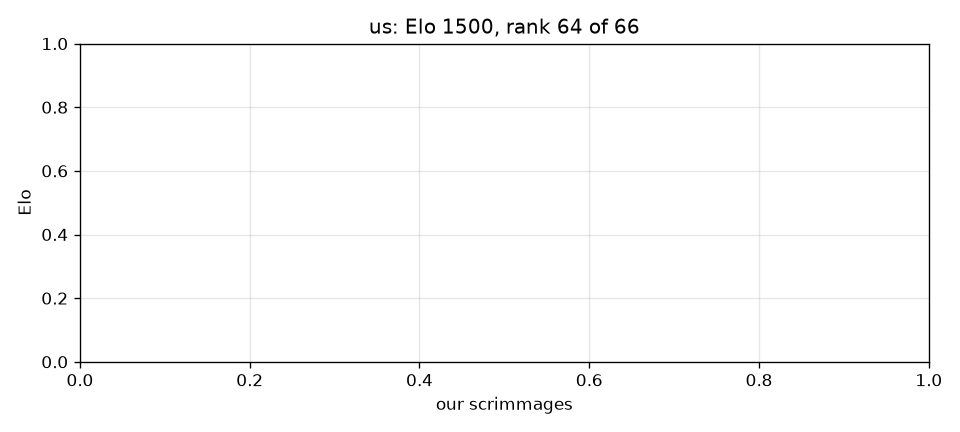
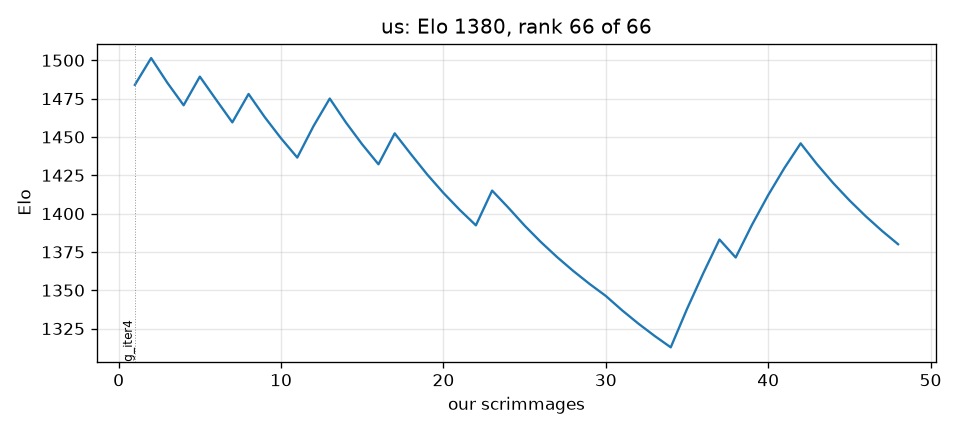
g_iter4 first scrimmage block: 14/48; ladder updated; scrim-record reads results.csv when raw is gone
Claude-Session: https://claude.ai/code/session_01VgeNHsn9ncLsLui8RaK6L7

diff --git a/tools/scrim-record.py b/tools/scrim-record.py
@@ -9,7 +9,10 @@ ap = argparse.ArgumentParser(); ap.add_argument('run'); ap.add_argument('--label
 a = ap.parse_args(); run = os.path.basename(a.run.rstrip('/'))
 if any(r['run'] == run for r in elolib.load()): print('already recorded', run); sys.exit(0)
 new = []
-for i, line in enumerate(open(os.path.join(a.run, 'results.raw'))):
+src = os.path.join(a.run, 'results.raw')
+if not os.path.exists(src): src = os.path.join(a.run, 'results.csv')   # gauntlet.sh keeps only the sorted csv (same columns, header first)
+for i, line in enumerate(open(src)):
+    if line.startswith('opponent,'): continue
     f = line.rstrip('\n').split(',')
     if run.endswith('-ladder'):
         if len(f) < 6 or f[3] not in ('A', 'B'): continue

diff --git a/progress/ELO.md b/progress/ELO.md
@@ -1,72 +1,72 @@
 # Elo ladder
 
-2 scrimmages recorded; K=32 from 1500; our team is **us** (rank 64 of 66, Elo 1500, 0 games).
+50 scrimmages recorded; K=32 from 1500; our team is **us** (rank 66 of 66, Elo 1380, 48 games).
 
 | rank | bot | Elo | games | W-L |
 |---|---|---|---|---|
-| 1 | Sihal3.cavShieldv705 | 1516 | 1 | 1-0 |
-| 2 | anshgs.ho4 | 1516 | 1 | 1-0 |
-| 3 | 123kevinlee.atomFinalQualifier | 1500 | 0 | 0-0 |
-| 4 | Ahhorse1.WinstonPlayer | 1500 | 0 | 0-0 |
-| 5 | Aryan34.bot | 1500 | 0 | 0-0 |
-| 6 | Aryo-Patel.finalBot | 1500 | 0 | 0-0 |
-| 7 | BSreenivas0713.musketeerplayerfinal | 1500 | 0 | 0-0 |
-| 8 | BattlecodeTeam4.robotalpha | 1500 | 0 | 0-0 |
-| 9 | BoluAdubi.bot1 | 1500 | 0 | 0-0 |
-| 10 | BryceKan3.bot.tournament.sprint | 1500 | 0 | 0-0 |
-| 11 | ChiragKalra.gen5 | 1500 | 0 | 0-0 |
-| 12 | IvanGeffner.thirtyone | 1500 | 0 | 0-0 |
-| 13 | JCRaymond.bot.tournament.sprint | 1500 | 0 | 0-0 |
-| 14 | JasonYe4273.finals | 1500 | 0 | 0-0 |
-| 15 | Mahpare.hackatrainee_v1 | 1500 | 0 | 0-0 |
-| 16 | OliverMKing.bot.tournament.sprint | 1500 | 0 | 0-0 |
-| 17 | SLaGrave.AlphaCentauri | 1500 | 0 | 0-0 |
-| 18 | Scott-Poole.spright8 | 1500 | 0 | 0-0 |
-| 19 | StoneT2000.sprinttuna | 1500 | 0 | 0-0 |
-| 20 | TeamSerpentine.mars | 1500 | 0 | 0-0 |
-| 21 | Techno-coder.muckrakers | 1500 | 0 | 0-0 |
-| 22 | Victoriano012.SprintBot2 | 1500 | 0 | 0-0 |
-| 23 | VittalT.final_usqualplayer3_subm | 1500 | 0 | 0-0 |
-| 24 | abhishekshree.bot2 | 1500 | 0 | 0-0 |
-| 25 | aidan-mundy.final_usqualplayer3_subm | 1500 | 0 | 0-0 |
-| 26 | ama29.v6 | 1500 | 0 | 0-0 |
-| 27 | angelaloh09.camelmanplayer | 1500 | 0 | 0-0 |
-| 28 | arya-k.quals_v1 | 1500 | 0 | 0-0 |
-| 29 | astelmach20.piedPiper | 1500 | 0 | 0-0 |
-| 30 | awesomelemonade.sprint1bot | 1500 | 0 | 0-0 |
-| 31 | davidfang00.Rushbot3 | 1500 | 0 | 0-0 |
-| 32 | diegorod9000.Newcomer | 1500 | 0 | 0-0 |
-| 33 | dominicmkennedy.playerj3 | 1500 | 0 | 0-0 |
-| 34 | edlwang.sprint2 | 1500 | 0 | 0-0 |
-| 35 | ehiggins98.initialbot | 1500 | 0 | 0-0 |
-| 36 | evan-schott.bugplayer | 1500 | 0 | 0-0 |
-| 37 | iliao2345.attacker | 1500 | 0 | 0-0 |
-| 38 | iyzg.sbot17 | 1500 | 0 | 0-0 |
-| 39 | jay20162016.ecobot | 1500 | 0 | 0-0 |
-| 40 | jjtippetts.influencerforceplayer | 1500 | 0 | 0-0 |
-| 41 | jmerle.camel_case_v7_sprint_2 | 1500 | 0 | 0-0 |
+| 1 | rzhan11.sprint2 | 1566 | 6 | 6-0 |
+| 2 | iliao2345.attacker | 1558 | 6 | 6-0 |
+| 3 | awesomelemonade.sprint1bot | 1535 | 6 | 5-1 |
+| 4 | 123kevinlee.atomFinalQualifier | 1526 | 6 | 4-2 |
+| 5 | arya-k.quals_v1 | 1518 | 6 | 4-2 |
+| 6 | Scott-Poole.spright8 | 1517 | 6 | 4-2 |
+| 7 | Sihal3.cavShieldv705 | 1516 | 1 | 1-0 |
+| 8 | anshgs.ho4 | 1516 | 1 | 1-0 |
+| 9 | Ahhorse1.WinstonPlayer | 1500 | 0 | 0-0 |
+| 10 | Aryan34.bot | 1500 | 0 | 0-0 |
+| 11 | Aryo-Patel.finalBot | 1500 | 0 | 0-0 |
+| 12 | BSreenivas0713.musketeerplayerfinal | 1500 | 0 | 0-0 |
+| 13 | BattlecodeTeam4.robotalpha | 1500 | 0 | 0-0 |
+| 14 | BoluAdubi.bot1 | 1500 | 0 | 0-0 |
+| 15 | BryceKan3.bot.tournament.sprint | 1500 | 0 | 0-0 |
+| 16 | ChiragKalra.gen5 | 1500 | 0 | 0-0 |
+| 17 | IvanGeffner.thirtyone | 1500 | 0 | 0-0 |
+| 18 | JCRaymond.bot.tournament.sprint | 1500 | 0 | 0-0 |
+| 19 | JasonYe4273.finals | 1500 | 0 | 0-0 |
+| 20 | Mahpare.hackatrainee_v1 | 1500 | 0 | 0-0 |
+| 21 | OliverMKing.bot.tournament.sprint | 1500 | 0 | 0-0 |
+| 22 | SLaGrave.AlphaCentauri | 1500 | 0 | 0-0 |
+| 23 | StoneT2000.sprinttuna | 1500 | 0 | 0-0 |
+| 24 | TeamSerpentine.mars | 1500 | 0 | 0-0 |
+| 25 | Techno-coder.muckrakers | 1500 | 0 | 0-0 |
+| 26 | Victoriano012.SprintBot2 | 1500 | 0 | 0-0 |
+| 27 | VittalT.final_usqualplayer3_subm | 1500 | 0 | 0-0 |
+| 28 | abhishekshree.bot2 | 1500 | 0 | 0-0 |
+| 29 | aidan-mundy.final_usqualplayer3_subm | 1500 | 0 | 0-0 |
+| 30 | ama29.v6 | 1500 | 0 | 0-0 |
+| 31 | angelaloh09.camelmanplayer | 1500 | 0 | 0-0 |
+| 32 | astelmach20.piedPiper | 1500 | 0 | 0-0 |
+| 33 | davidfang00.Rushbot3 | 1500 | 0 | 0-0 |
+| 34 | diegorod9000.Newcomer | 1500 | 0 | 0-0 |
+| 35 | dominicmkennedy.playerj3 | 1500 | 0 | 0-0 |
+| 36 | edlwang.sprint2 | 1500 | 0 | 0-0 |
+| 37 | ehiggins98.initialbot | 1500 | 0 | 0-0 |
+| 38 | evan-schott.bugplayer | 1500 | 0 | 0-0 |
+| 39 | iyzg.sbot17 | 1500 | 0 | 0-0 |
+| 40 | jay20162016.ecobot | 1500 | 0 | 0-0 |
+| 41 | jjtippetts.influencerforceplayer | 1500 | 0 | 0-0 |
 | 42 | mama4294.Maloneplayer | 1500 | 0 | 0-0 |
-| 43 | max-titov.sprintplayer | 1500 | 0 | 0-0 |
-| 44 | mhahn2003.finals | 1500 | 0 | 0-0 |
-| 45 | mhbtz1.presprint | 1500 | 0 | 0-0 |
-| 46 | mvpatel2000.biden | 1500 | 0 | 0-0 |
-| 47 | naalit.mukrush | 1500 | 0 | 0-0 |
-| 48 | nickel-dime.piedPiper | 1500 | 0 | 0-0 |
-| 49 | nsortur.piedPiper | 1500 | 0 | 0-0 |
-| 50 | paulmure.sprintplayer | 1500 | 0 | 0-0 |
-| 51 | pranayagra.finalbot11 | 1500 | 0 | 0-0 |
-| 52 | qawsedrftgzh.battlecode2021 | 1500 | 0 | 0-0 |
-| 53 | raytran.dlmoreram010921 | 1500 | 0 | 0-0 |
-| 54 | rqi3.qualification_bot | 1500 | 0 | 0-0 |
-| 55 | ryanbai1412.sprint_0 | 1500 | 0 | 0-0 |
-| 56 | rzhan11.sprint2 | 1500 | 0 | 0-0 |
-| 57 | saivivekvenna.Ba_ba_booie | 1500 | 0 | 0-0 |
-| 58 | sasank02.framework3_mr_density | 1500 | 0 | 0-0 |
-| 59 | thevaliantthird.bot1 | 1500 | 0 | 0-0 |
-| 60 | unai-gurbindo.camelmanplayer | 1500 | 0 | 0-0 |
-| 61 | winkelmantanner.tannerplayer | 1500 | 0 | 0-0 |
-| 62 | woodstockcs.fanandflag | 1500 | 0 | 0-0 |
-| 63 | wstan2001.boundfinder | 1500 | 0 | 0-0 |
-| 64 | **us** | 1500 | 0 | 0-0 |
-| 65 | TylerQube.sandmenplayer | 1484 | 1 | 0-1 |
-| 66 | alextheimer.player | 1484 | 1 | 0-1 |
+| 43 | mhahn2003.finals | 1500 | 0 | 0-0 |
+| 44 | mhbtz1.presprint | 1500 | 0 | 0-0 |
+| 45 | mvpatel2000.biden | 1500 | 0 | 0-0 |
+| 46 | naalit.mukrush | 1500 | 0 | 0-0 |
+| 47 | nickel-dime.piedPiper | 1500 | 0 | 0-0 |
+| 48 | nsortur.piedPiper | 1500 | 0 | 0-0 |
+| 49 | paulmure.sprintplayer | 1500 | 0 | 0-0 |
+| 50 | pranayagra.finalbot11 | 1500 | 0 | 0-0 |
+| 51 | qawsedrftgzh.battlecode2021 | 1500 | 0 | 0-0 |
+| 52 | raytran.dlmoreram010921 | 1500 | 0 | 0-0 |
+| 53 | rqi3.qualification_bot | 1500 | 0 | 0-0 |
+| 54 | ryanbai1412.sprint_0 | 1500 | 0 | 0-0 |
+| 55 | saivivekvenna.Ba_ba_booie | 1500 | 0 | 0-0 |
+| 56 | sasank02.framework3_mr_density | 1500 | 0 | 0-0 |
+| 57 | thevaliantthird.bot1 | 1500 | 0 | 0-0 |
+| 58 | unai-gurbindo.camelmanplayer | 1500 | 0 | 0-0 |
+| 59 | winkelmantanner.tannerplayer | 1500 | 0 | 0-0 |
+| 60 | woodstockcs.fanandflag | 1500 | 0 | 0-0 |
+| 61 | wstan2001.boundfinder | 1500 | 0 | 0-0 |
+| 62 | jmerle.camel_case_v7_sprint_2 | 1485 | 6 | 4-2 |
+| 63 | TylerQube.sandmenplayer | 1484 | 1 | 0-1 |
+| 64 | alextheimer.player | 1484 | 1 | 0-1 |
+| 65 | max-titov.sprintplayer | 1415 | 6 | 1-5 |
+| 66 | **us** | 1380 | 48 | 14-34 |
